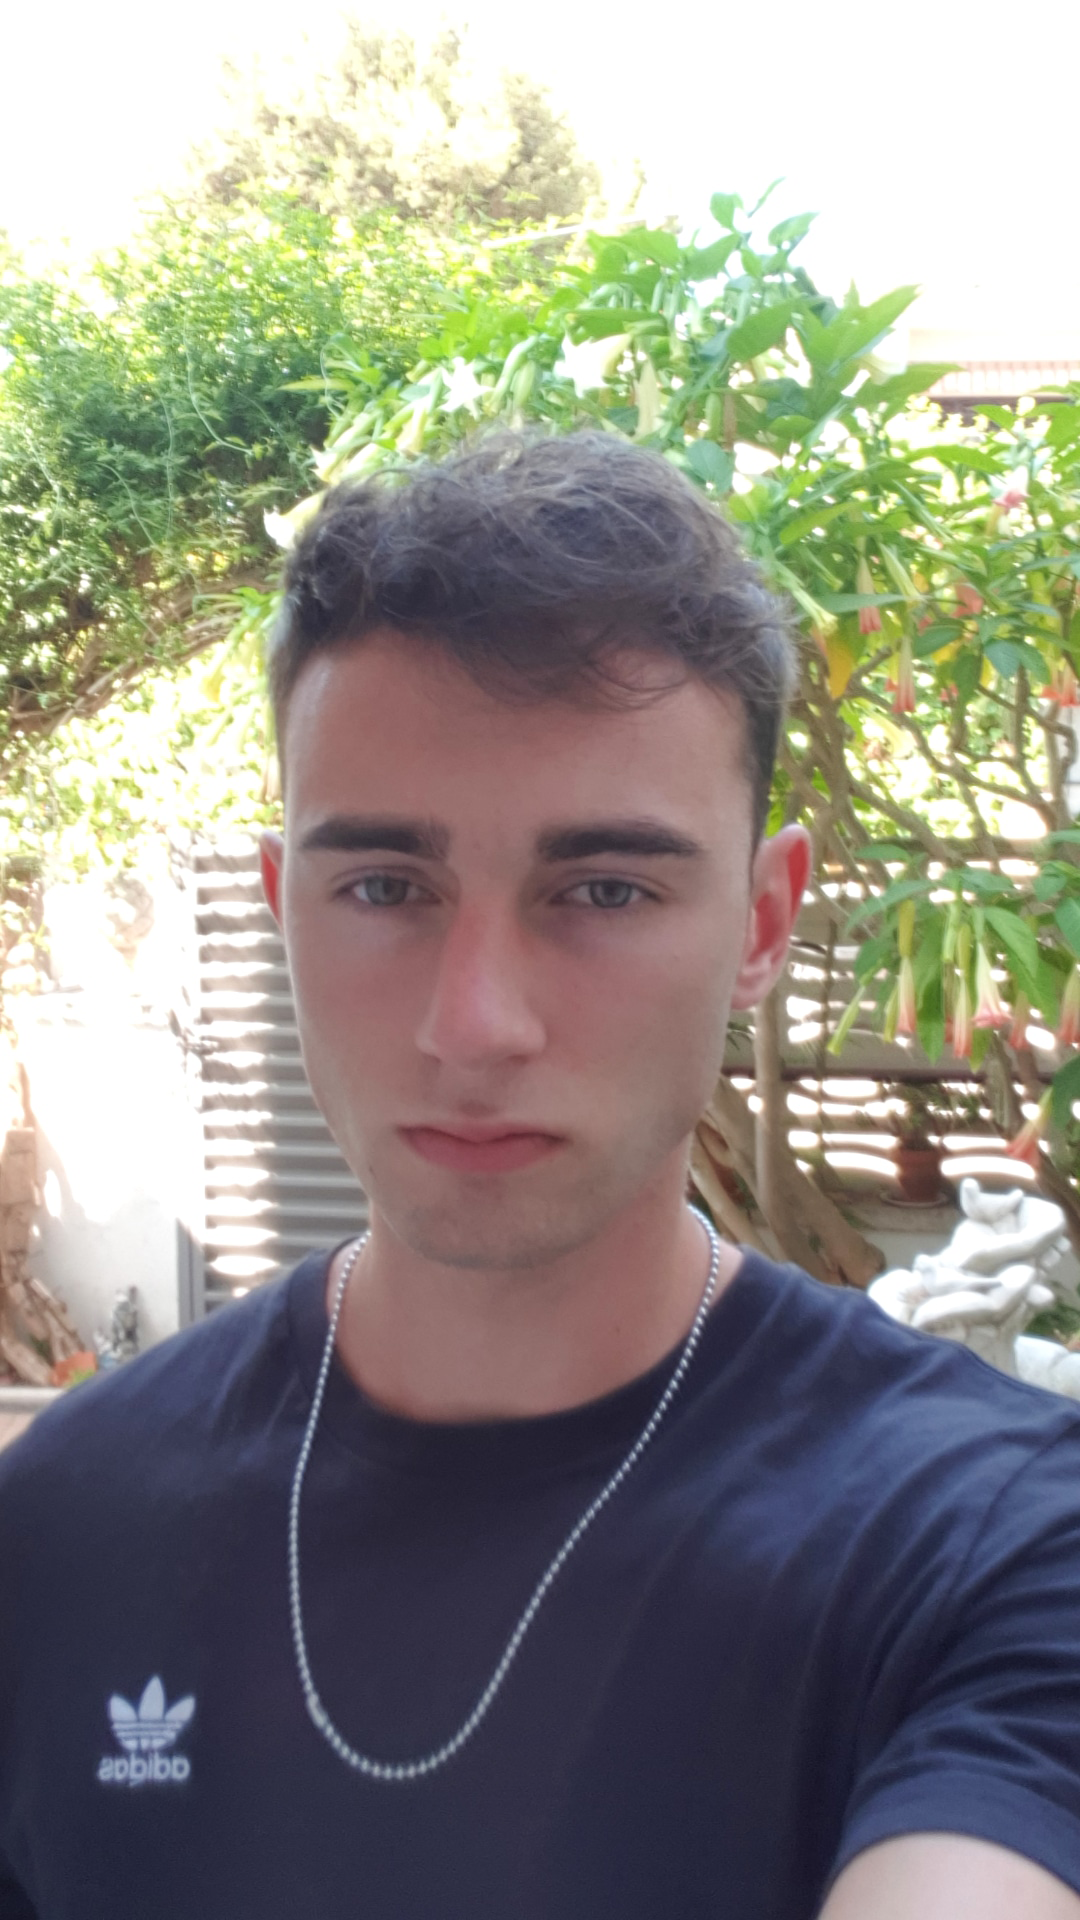
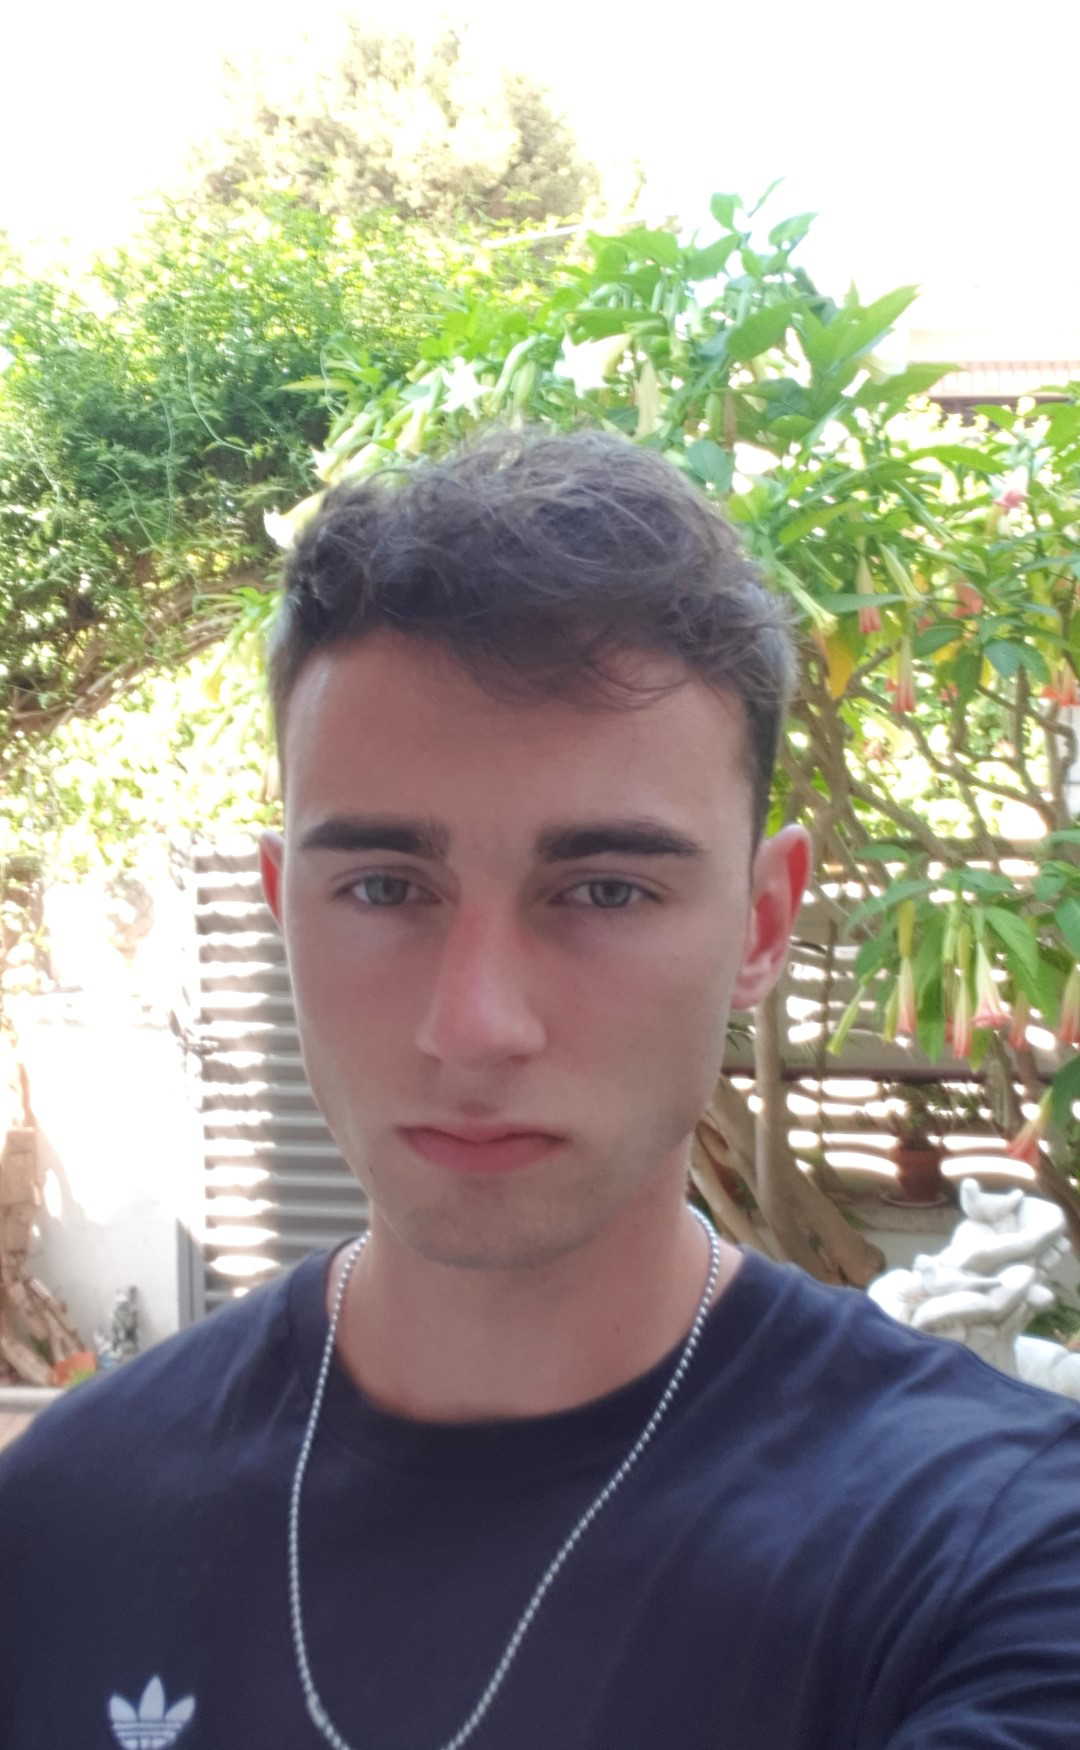
updated photo

diff --git a/team/daniel_ruiz.html b/team/daniel_ruiz.html
@@ -57,9 +57,9 @@
 								
 								<h1>
 								
-									<h1 style="display: inline-flex; margin-bottom: -15px;" >PAU FIOL - ARTIST</h1>
+									<h1 style="display: inline-flex; margin-bottom: -15px;" >DANIEL RUIZ - DESIGNER</h1>
 
-									<img style="float:right; margin-left: 15px; border-radius: 8px; " src="../images/team/pau_fiol/pau_fiol.jpeg" alt="Pau Fiol" width="30%"/>
+									<img style="float:right; margin-left: 15px; border-radius: 8px; " src="../images/team/daniel_ruiz/daniel_ruiz.png" alt="Daniel Ruiz" width="30%"/>
 									<div style="float:right;  margin-bottom: -15px;">	
 										<ul class="icons">
 											<li><a href="LINK HERE" class="icon brands fa-linkedin alt"><span class="label">Linkedin</span></a></li>											
@@ -79,7 +79,7 @@
 								</div>
 
 								
-							</section>	
+							<!-- </section>	
 								<div class="slideshow-container">
 
 								<div class="mySlides fade">
@@ -101,7 +101,7 @@
 
 								<a class="prev" onclick="plusSlides(-1)">&#10094;</a>
 								<a class="next" onclick="plusSlides(1)">&#10095;</a>
-							</div>
+							</div> -->
 								
 							<div style="text-align:center">
 								<span class="dot" onclick="currentSlide(1)"></span> 
